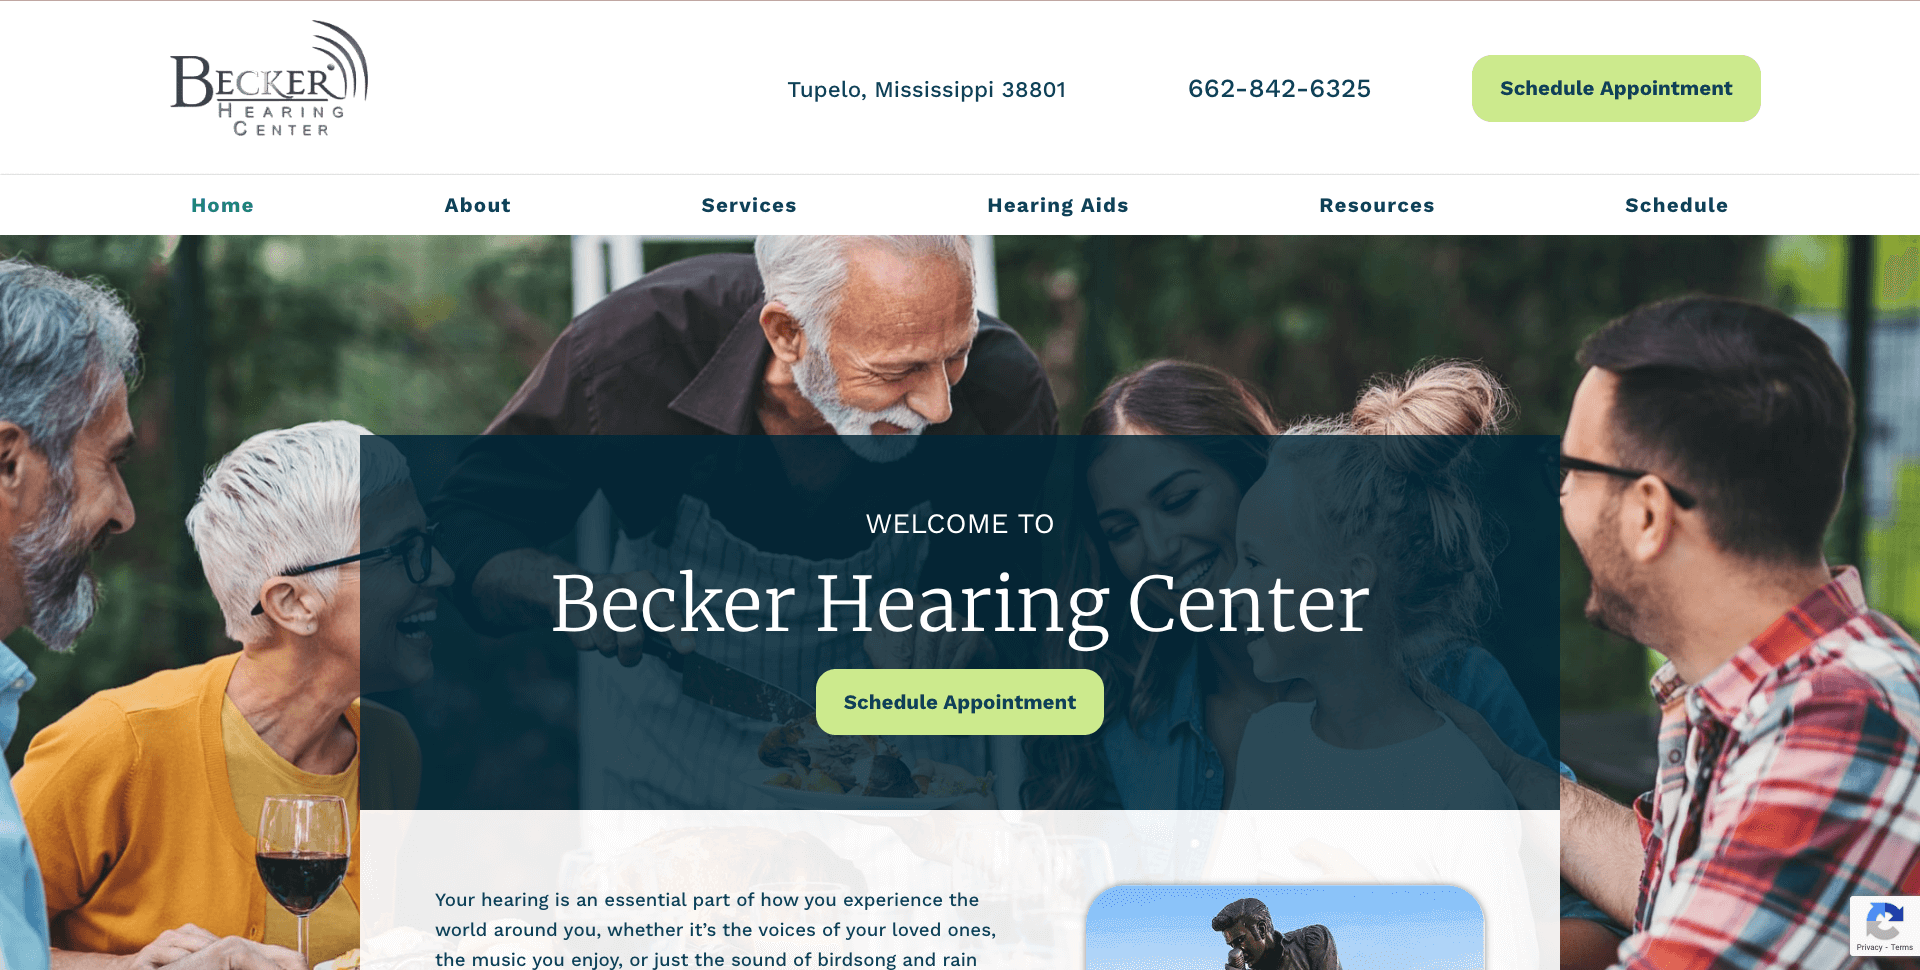
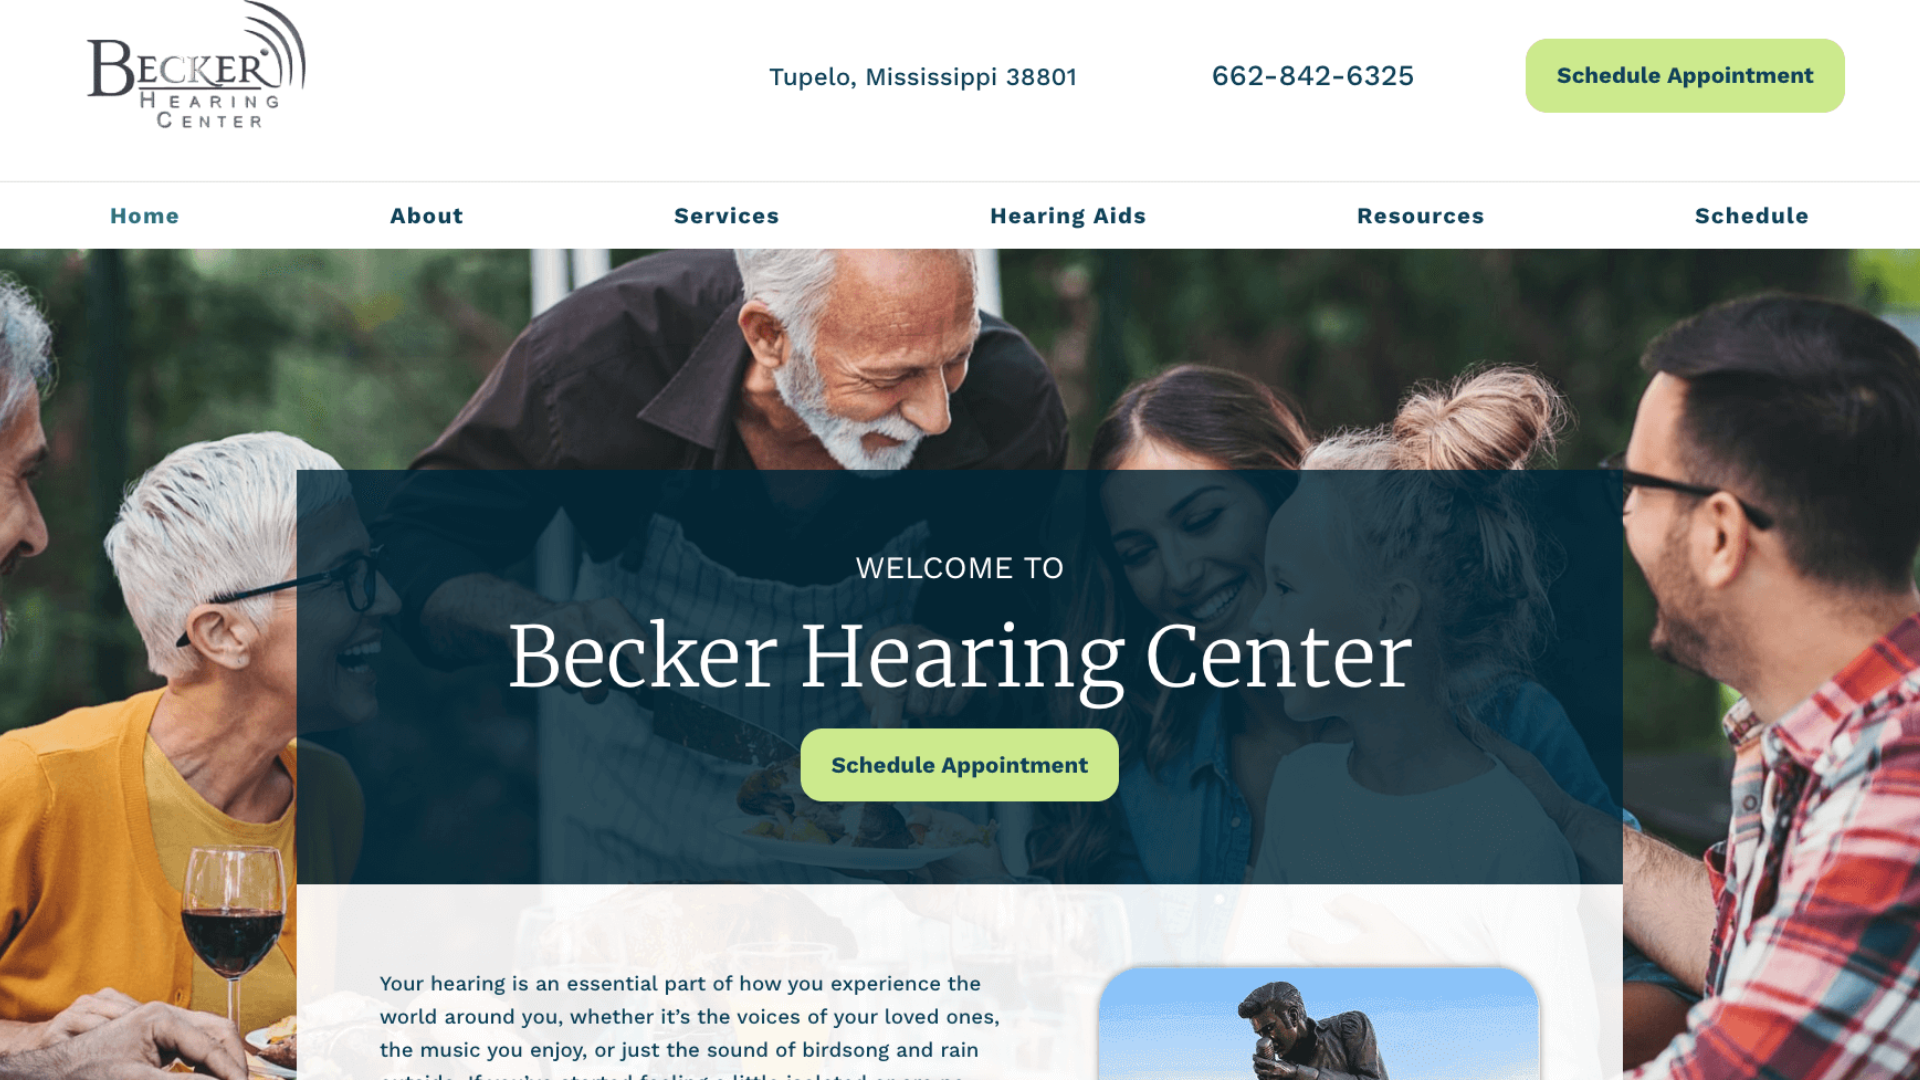
new images properly ssisized and upated

diff --git a/src/index.js b/src/index.js
@@ -14,20 +14,20 @@ const projectsList = [
       src2: "https://www.beckerhearing.com/",
     },
     description:
-      "A live webpage for Becker Hearing Center. Developed with WordPress, Elementor Pro, CSS, HTML5 and JavaScript.",
+      "A live webpage for Becker Hearing Center. Developed from scratch with WordPress, Elementor Pro, CSS, HTML5 and JavaScript. Implemented a responsive web design and ensured the site was completely accessible for all users with performance results for each screen is above 97%.",
     imgSrc: "../project-photos/becker-front-end.png",
   },
   {
     id: 2,
-    title: "VIDA & Co.: Sort and Filter Feature",
+    title: "VIDA & Co. Feature: Sort and Filter",
     links: {
       videoSrc: "../videos/form-sort-and-filter.mp4",
       src2: "https://www.youtube.com/embed/o7cGMn5_jx8",
     },
     description:
-      "Utilizing React, JavaScript, material ui and SCSS, I made a feature on an administration page to view all of the students who have enrolled in a program. The user is able to filter the students by their enrollment status and sort the students by date, email or username in either ascending or descending order.",
+      "Utilizing React, JavaScript, material UI and SCSS, I built a feature on the administration page to view every student enrolled. The user is able to filter the students by their enrollment status and sort the students by date, email or username in either ascending or descending order. I utilized React useState hook in addition to a switch statement to sort the data either ascending or descending.",
     github: "https://www.youtube.com/embed/tFt5vCWaR94",
-    imgSrc: "../project-photos/front-end-filter-feature.png",
+    imgSrc: "../project-photos/one-league.png",
   },
   {
     id: 3,
